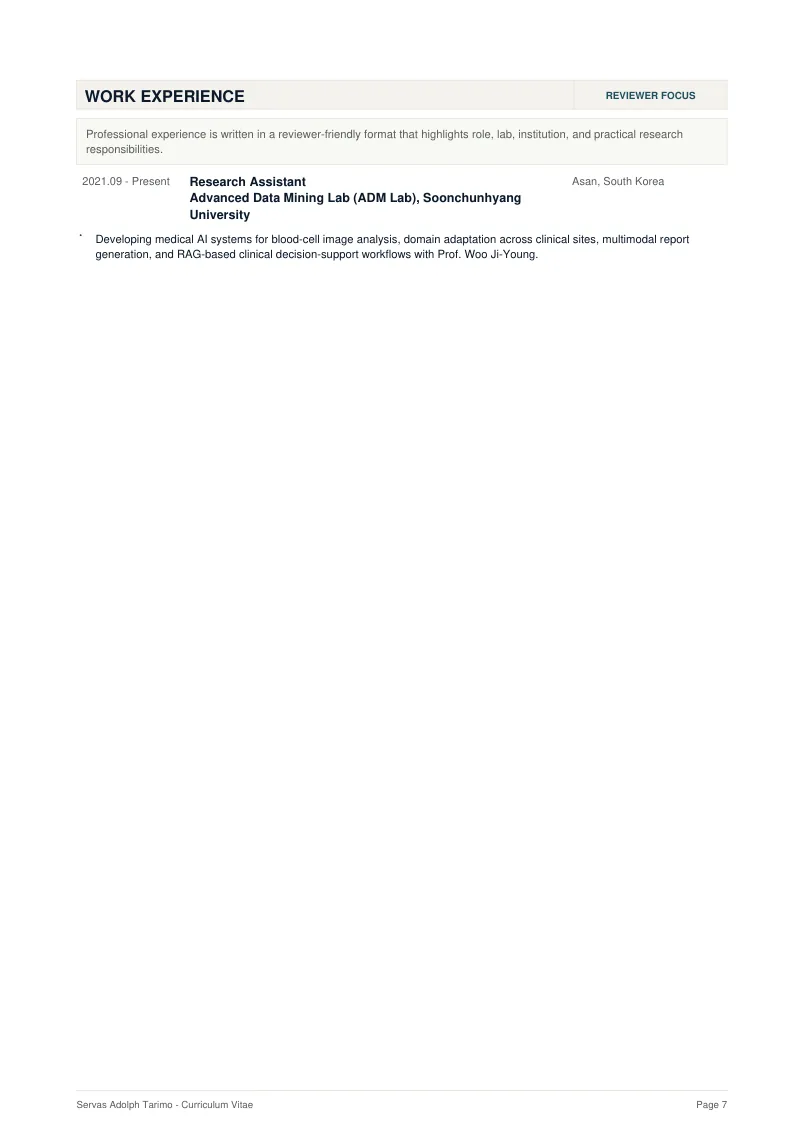
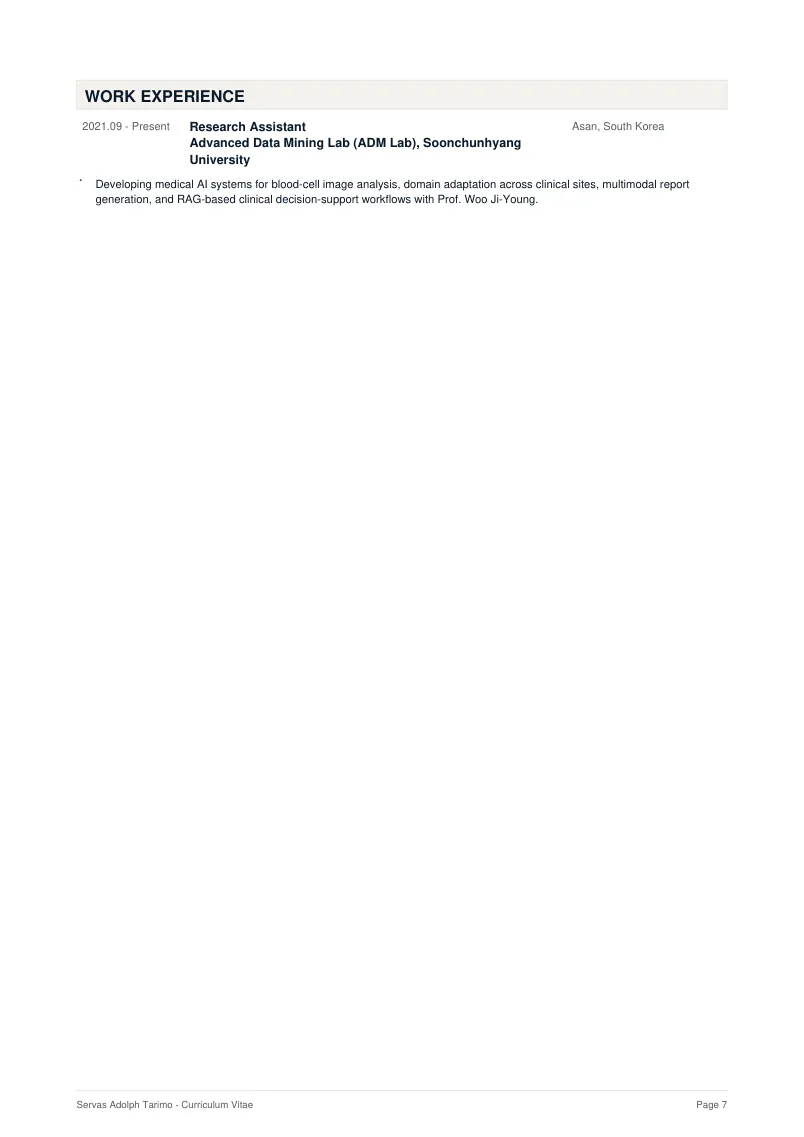
[codex] Simplify CV section pages

Changed region(s): [[0.0933, 0.0616, 0.8706, 0.2463]]

diff --git a/_cv_source/build_cv.py b/_cv_source/build_cv.py
@@ -21,7 +21,7 @@ from reportlab.platypus import (
 
 
 ROOT = Path(__file__).resolve().parents[1]
-OUTPUT = ROOT / "tmp" / "pdfs" / "Servas_Adolph_CV_2024_Updated_09.pdf"
+OUTPUT = ROOT / "files" / "Servas_Adolph_CV_2024_Updated_09.pdf"
 OUTPUT.parent.mkdir(parents=True, exist_ok=True)
 
 INK = colors.HexColor("#0d1b2a")
@@ -147,13 +147,12 @@ def section(title, st):
     return [
         Spacer(1, 8),
         Table(
-            [[p(title.upper(), st["section"]), p("REVIEWER FOCUS", st["kicker"])]],
-            colWidths=[130 * mm, 40 * mm],
+            [[p(title.upper(), st["section"])]],
+            colWidths=[170 * mm],
             style=TableStyle(
                 [
                     ("BACKGROUND", (0, 0), (-1, -1), WARM),
                     ("BOX", (0, 0), (-1, -1), 0.35, LINE),
-                    ("LINEBEFORE", (1, 0), (1, 0), 0.35, LINE),
                     ("VALIGN", (0, 0), (-1, -1), "MIDDLE"),
                     ("LEFTPADDING", (0, 0), (-1, -1), 6),
                     ("RIGHTPADDING", (0, 0), (-1, -1), 6),
@@ -187,9 +186,6 @@ def new_section(story, title, st, intro=None, break_before=True):
     if break_before:
         story.append(PageBreak())
     story.extend(section(title, st))
-    if intro:
-        story.append(section_intro(intro, st))
-        story.append(Spacer(1, 7))
 
 
 def bullets(items, st):
